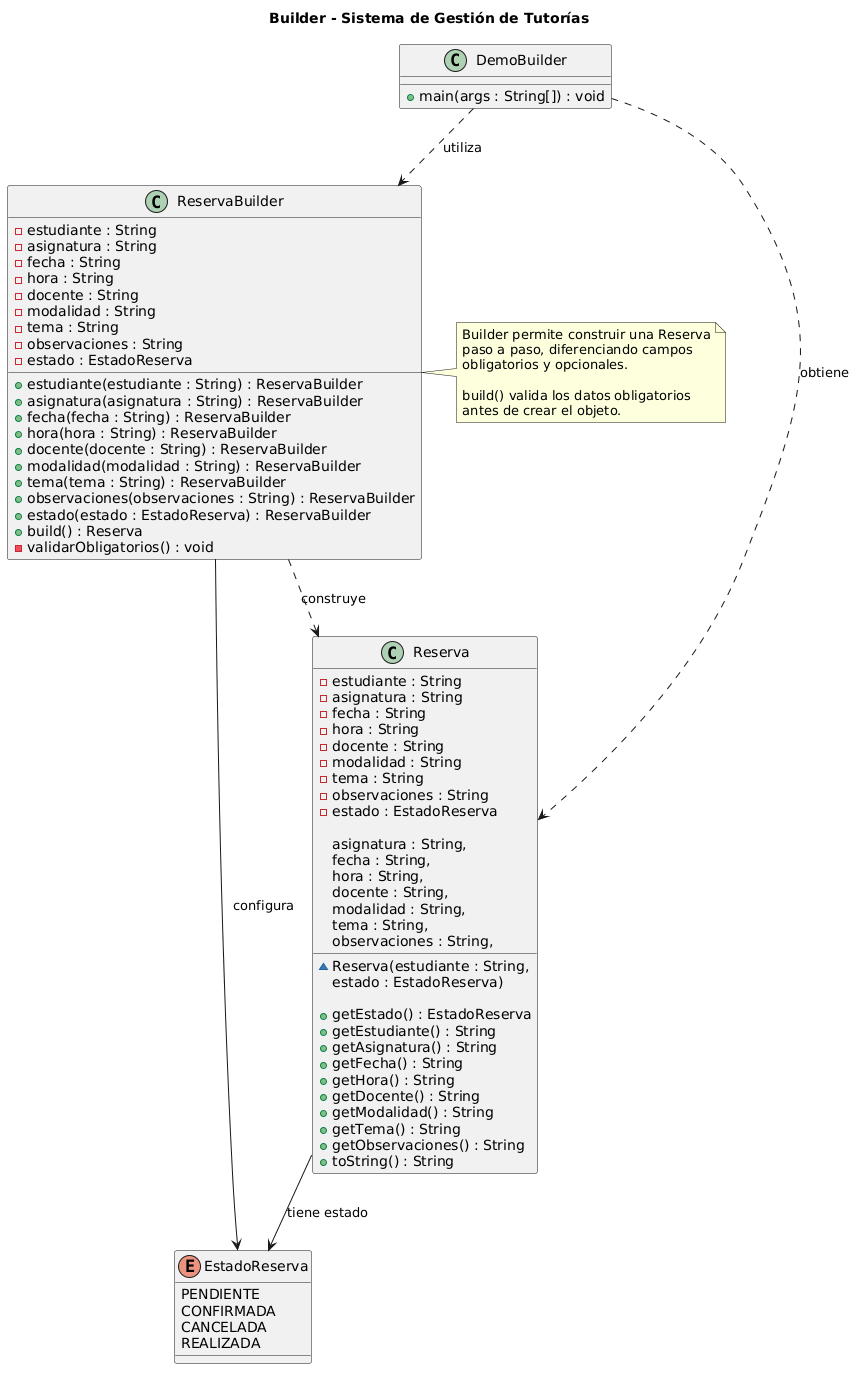
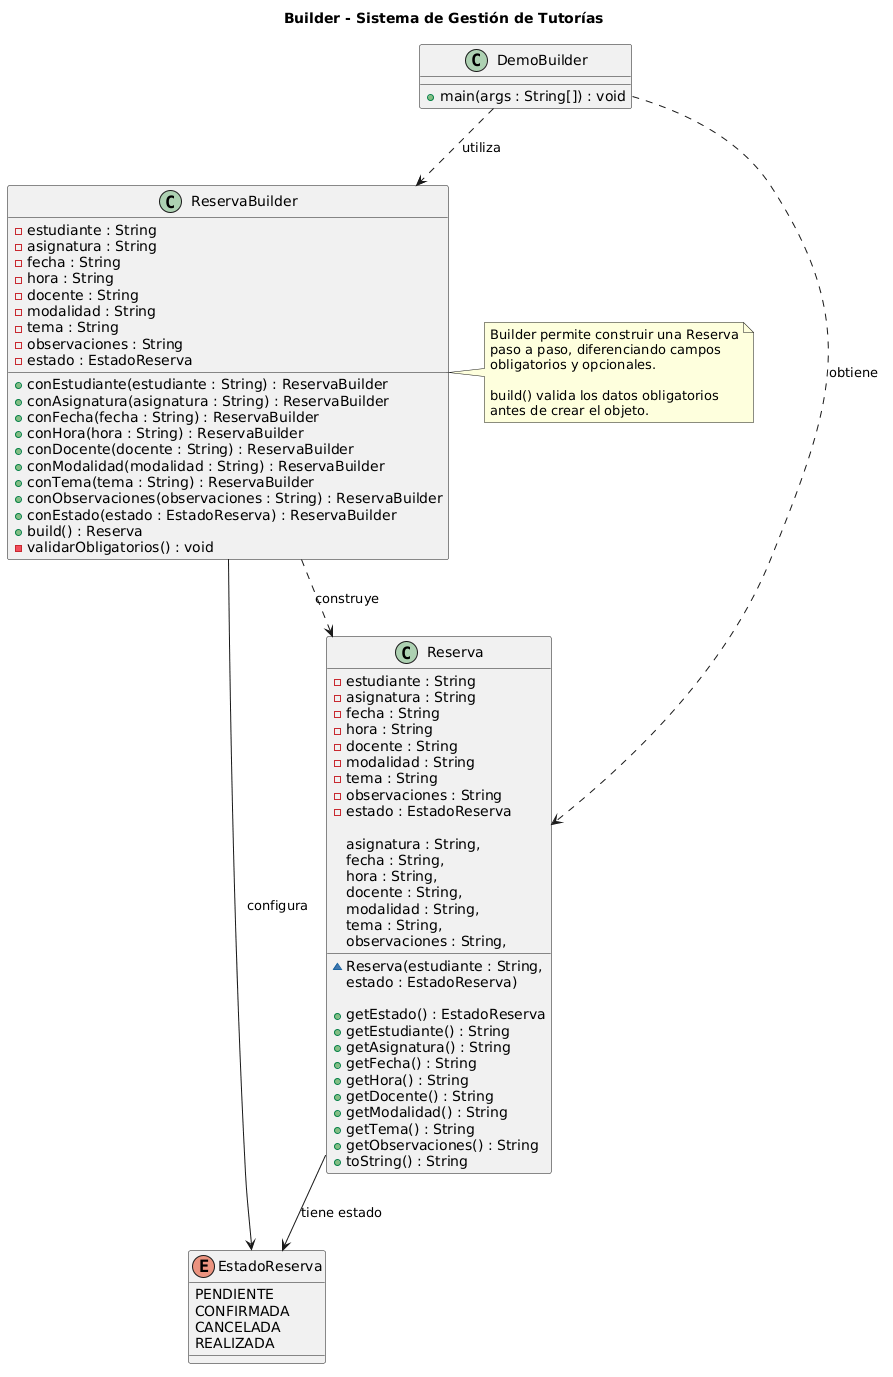
docs: alinear Builder UML y README con el codigo

diff --git a/README.md b/README.md
@@ -112,14 +112,14 @@ Ejemplo:
 
 ```java
 Reserva reserva = new ReservaBuilder()
-        .estudiante("Carlos Mendoza")
-        .asignatura("Diseño de Software")
-        .fecha("05/09/2026")
-        .hora("18:00")
-        .docente("Ing. Pérez")
-        .modalidad("Presencial")
-        .tema("Patrones de Diseño")
-        .estado(EstadoReserva.PENDIENTE)
+        .conEstudiante("Carlos Mendoza")
+        .conAsignatura("Diseño de Software")
+        .conFecha("05/09/2026")
+        .conHora("18:00")
+        .conDocente("Ing. Pérez")
+        .conModalidad("Presencial")
+        .conTema("Patrones de Diseño")
+        .conEstado(EstadoReserva.PENDIENTE)
         .build();
 ```
 
